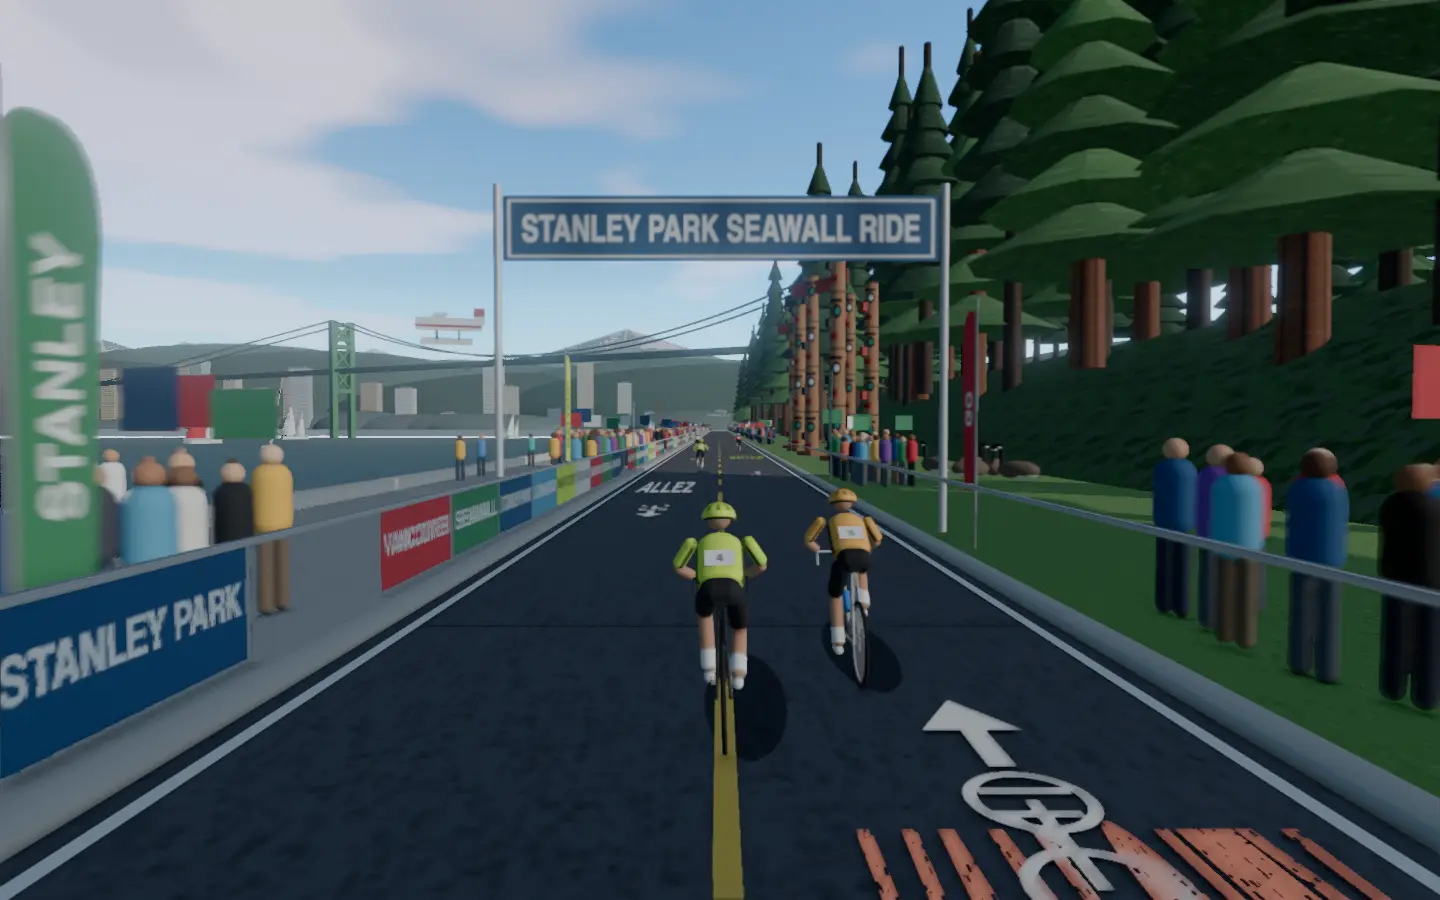
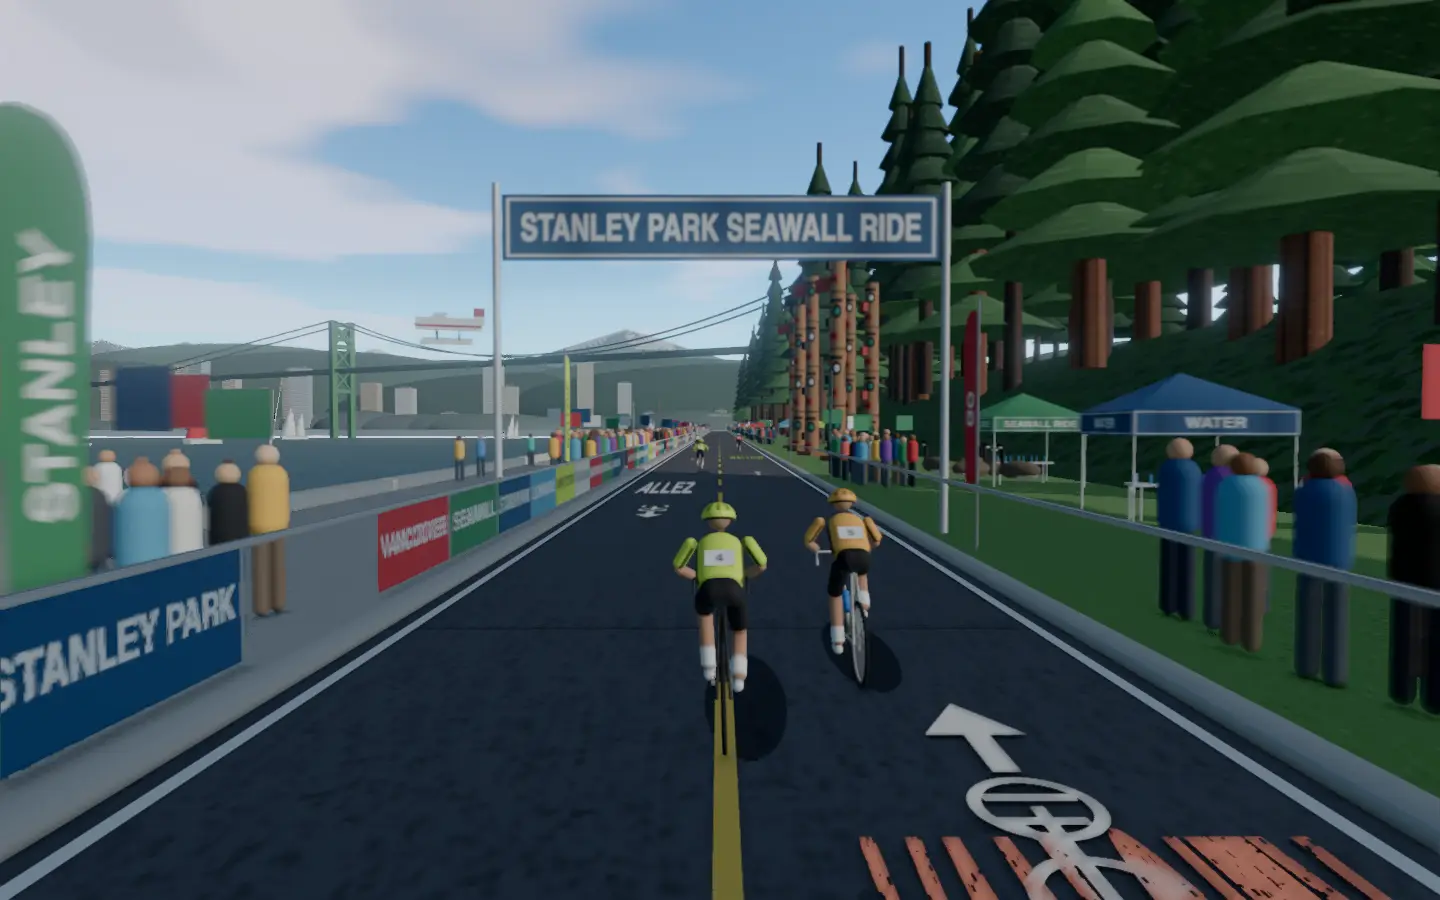
Pitch the Stanley Park ride's village of branded tents along the seawall

diff --git a/frontend/projects/wattzup/src/app/core/world-stanleypark.ts b/frontend/projects/wattzup/src/app/core/world-stanleypark.ts
@@ -122,6 +122,19 @@ const FEATHERS: readonly FeatherWord[] = [
   ['WATTZUP', '#d7ff3a', '#1b1e24'],
 ];
 const FEATHER_EVERY = 16;
+/**
+ * The ride's village on the grass behind the right-hand crowd, either side of the totem poles'
+ * lawn: pop-up tents in the ride's colours, each named on its valance, and where it stands.
+ */
+const TENTS: readonly (readonly [string, string, string, number, number])[] = [
+  ['WATER', '#1f4e79', '#ffffff', 112, 9.6],
+  ['SEAWALL RIDE', '#2e8b57', '#ffffff', 122, 10.2],
+  ['WATTZUP', '#d7ff3a', '#1b1e24', 182, 9.8],
+  ['BIKE REPAIR', '#d8283a', '#ffffff', 192, 10.4],
+  ['VANCOUVER', '#4fa3c7', '#ffffff', 203, 9.7],
+  ['FIRST AID', '#f2efe6', '#d8283a', 330, 9.8],
+  ['WATER', '#1f4e79', '#ffffff', 420, 9.6],
+];
 /** What the fans paint on the path, its colour and how far off the centre line. */
 const ROAD_PAINT: readonly (readonly [string, string, number])[] = [
   ['GO GO', '#ffffff', -1.8],
@@ -192,6 +205,7 @@ export class StanleyParkStreet implements SceneStreet {
     this.addTotems();
     this.addStreetBanners(roadHalf);
     this.addFeatherFlags();
+    this.addTents();
     this.addRoadPaint();
     this.addStencils();
     this.addBoats();
@@ -498,6 +512,77 @@ export class StanleyParkStreet implements SceneStreet {
       banner.add(c);
       this.group.add(banner);
       this.props.push({ mesh: banner, offset: 110 + i * 250, every: LOOP, x: 0 });
+    });
+  }
+
+  /**
+   * Pop-up tents of the ride's village: a 3 m square canopy peaked over four white legs, a
+   * printed valance on every side, and a trestle table under it laid with water bottles.
+   */
+  private addTents(): void {
+    const leg = new CylinderGeometry(0.03, 0.03, 2.3, 6);
+    leg.translate(0, 1.15, 0);
+    const roof = new ConeGeometry(2.12, 0.8, 4, 1, true);
+    roof.rotateY(Math.PI / 4);
+    const valance = new PlaneGeometry(3, 0.5);
+    const top = new BoxGeometry(1.9, 0.05, 0.7);
+    const bottle = new CylinderGeometry(0.035, 0.035, 0.22, 8);
+    this.disposables.push(leg, roof, valance, top, bottle);
+    const white = this.material({ color: 0xf2f2ee, metalness: 0.4, roughness: 0.4 });
+    const blue = this.material({
+      color: 0x4fa3d8,
+      roughness: 0.2,
+      transparent: true,
+      opacity: 0.85,
+    });
+    TENTS.forEach(([text, fill, ink, offset, x], i) => {
+      const tent = new Group();
+      for (const [lx, lz] of [
+        [-1.45, -1.45],
+        [1.45, -1.45],
+        [-1.45, 1.45],
+        [1.45, 1.45],
+      ] as const) {
+        const l = new Mesh(leg, white);
+        l.position.set(lx, 0, lz);
+        tent.add(l);
+      }
+      const canopy = new Mesh(
+        roof,
+        this.material({ color: fill, side: DoubleSide, roughness: 0.7 }),
+      );
+      canopy.position.y = 2.3 + 0.4;
+      canopy.castShadow = true;
+      tent.add(canopy);
+      const print = this.material({
+        map: this.track(clothBannerTexture(text, fill, ink)),
+        side: DoubleSide,
+        roughness: 0.7,
+      });
+      for (let k = 0; k < 4; k++) {
+        const v = new Mesh(valance, print);
+        const a = (k * Math.PI) / 2;
+        v.position.set(Math.sin(a) * 1.5, 2.05, Math.cos(a) * 1.5);
+        v.rotation.y = a;
+        tent.add(v);
+      }
+      const table = new Mesh(top, white);
+      table.position.y = 0.75;
+      tent.add(table);
+      for (const tx of [-0.75, -0.5, 0.75]) {
+        const tableLeg = new Mesh(leg, white);
+        tableLeg.scale.y = 0.32;
+        tableLeg.position.set(tx < 0 ? -0.85 : 0.85, 0, tx === -0.5 ? 0.3 : -0.3);
+        tent.add(tableLeg);
+      }
+      for (let b = 0; b < 8; b++) {
+        const m = new Mesh(bottle, blue);
+        m.position.set(-0.8 + b * 0.22, 0.88, (b % 2) * 0.14 - 0.07);
+        tent.add(m);
+      }
+      tent.rotation.y = (i % 3) * 0.12 - 0.12;
+      this.group.add(tent);
+      this.props.push({ mesh: tent, offset, every: LOOP, x });
     });
   }
 

diff --git a/docs/class-worlds.md b/docs/class-worlds.md
@@ -25,7 +25,7 @@ Every class in `frontend/public/classes.json`, with its World Ride scene. Render
 | 19 | 15 Minutes HIIT Sprinting Efforts | Golden Gate Park | 81% | Fog drifts through the eucalyptus and Monterey cypress along John F. Kennedy Drive in San Francisco's Golden Gate Park, past roller skaters, Spreckels Lake and the bison grazing in their paddock toward the Dutch Windmill above Ocean Beach. The one-minute opener rolls through the eucalyptus groves, and the seven thirty-second sprints each fly past the bison paddock before a minute's recovery coasts on toward the windmill. |
 | 20 | In and Out, Shake It All About | Blackpool Illuminations | 68% | Seaside lights, piers and the tower; weave in and out of tram stops along the illuminated promenade. |
 | 21 | Quick Sprint Session | Copacabana Promenade (concept) |  | Rio's wave-patterned beachfront at sunset; sprint between volleyball nets with Sugarloaf on the horizon. |
-| 22 | 15 Minute Beginner Session | Stanley Park Seawall | 79% | The seawall path curls around Vancouver's Stanley Park between the cedars and the sea, past the totem poles at Brockton Point and sailboats on English Bay toward the green towers of the Lions Gate Bridge under the North Shore mountains. The easy warm-up rolls past the totem poles, the one- and two-minute pushes follow the seawall's curve under the cedars, and the single thirty-second sprint races toward the bridge. |
+| 22 | 15 Minute Beginner Session | Stanley Park Seawall | 81% | The seawall path curls around Vancouver's Stanley Park between the cedars and the sea, past the totem poles at Brockton Point and sailboats on English Bay toward the green towers of the Lions Gate Bridge under the North Shore mountains. The easy warm-up rolls past the totem poles, the one- and two-minute pushes follow the seawall's curve under the cedars, and the single thirty-second sprint races toward the bridge. |
 | 23 | 15 Minute Cardio Workout at Home | Suburban Sunrise | 70% | Quiet tree-lined streets at dawn; sprinklers ticking, papers landing, neighbours waving from porches. |
 | 24 | 15 Min HIIT Cardio: Belly Fat Loss | Bondi to Bronte (concept) |  | Sydney's clifftop coast path; surf breaking below and an ocean pool at every headland. |
 | 25 | 15 Minute HIIT Cardio | Serpentine, Hyde Park (concept) |  | London lakeside paths with rowing boats and swans; each effort sweeps around the Serpentine. |

diff --git a/docs/detailed-designs/world-ride/draw-class-scene/README.md b/docs/detailed-designs/world-ride/draw-class-scene/README.md
@@ -240,6 +240,7 @@ None.
   - on the left a concrete walkway where twenty-six walkers and joggers go both ways (the kit's `Figures`), half of them in the stretch the rider first sees, then the seawall's granite face dropping to English Bay, sailboats tacking on it; `sink` drops the ground below the water;
   - on the right a grass verge, a mossy rock bank rising 7 m and the forest on and above it: western red cedars with drooping tiers on fluted reddish trunks and tall dark Douglas firs;
   - once a lap, 140 m into the loop and so in the opening view, the totem poles of Brockton Point on their lawn 6.2 m off the centre line, the crowd and the trees standing back from them: carved cedar poles of four stacked figures painted black, red and blue-green, each turned so its faces and beaks look out over the path toward the oncoming riders, some with wings outstretched;
+  - the ride's village on the grass behind the right-hand crowd, either side of the totem poles' lawn: 3 m pop-up tents in the ride's colours peaked over white legs, each named on a printed valance (WATER, SEAWALL RIDE, WATTZUP, BIKE REPAIR, VANCOUVER, FIRST AID), with a trestle table of water bottles under each;
   - the shared crowd in knots along the barriers, flocks of Canada geese grazing on the verge, and a white floatplane with red stripes on its floats banking in a slow arc low over the bay ahead and to the left, coming in to Coal Harbour;
   - 480 m ahead the Lions Gate Bridge leaving the park's headland 70 m right of the path and crossing the narrows, turned half a radian away so its towers' legs stand apart and its deck and cables run off into the distance: green towers with portal struts and X-bracing in each bay, sagging main cables with hangers and the high deck, freighters at anchor in the bay, North Vancouver's waterfront behind the bridge (white, cream and glass apartment towers with bands of balconies and lower blocks between them, along a wooded shore), forested foothills rising in folds behind it, and the North Shore mountains about 4 km off, forested ridges with snow on their tops, each layer hazed by hand a little more than the one in front.
 
